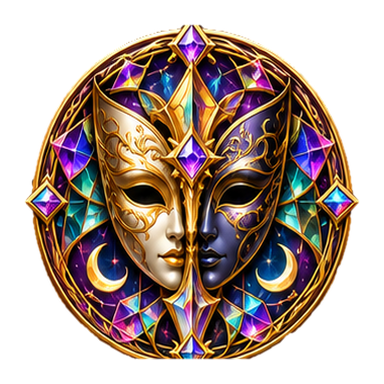
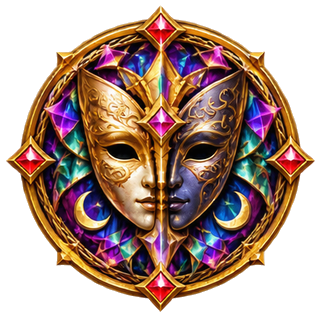
fix(spell-preview): rebuild 8 circular 320px school medallions to Class geometry

diff --git a/frontend/src/components/SpellCardFront.css b/frontend/src/components/SpellCardFront.css
@@ -7,11 +7,9 @@
   font-family:'Spectral',Georgia,serif;
 }
 .tf-spell-master *{box-sizing:border-box;}
-/* Medaglione Incantesimo: la stessa gabbia quadrata della Classe (Guerriero).
-   Il PNG corretto ha 24px trasparenti per lato su una tela 384x384.
-   Un ingombro visivo di 300/320 (come Guerriero) richiede 107.142857%
-   dell'immagine: 336/384 * 15/14 = 300/320.
-   Correzione ottica SENZA distorsioni, maschere, crop o transform. */
+/* Emblemi delle 8 scuole RICREATI come PNG quadrati 320x320.
+   Stesso box della Classe (Guerriero), nessun ingrandimento ottico:
+   centro 15.8%/10.1%, larghezza 27.5% della carta. */
 .tf-spell-school-medallion{
   position:absolute;left:2.05%;top:.2786%;width:27.5%;height:auto;
   aspect-ratio:1 / 1;z-index:14;display:block;
@@ -22,8 +20,8 @@
 }
 .tf-spell-school-emblem{
   position:absolute;display:block;
-  left:-3.5714286%;top:-3.5714286%;
-  width:107.142857%;height:107.142857%;aspect-ratio:1 / 1;
+  left:0;top:0;
+  width:100%;height:100%;aspect-ratio:1 / 1;
   object-fit:contain;max-width:none;max-height:none;
   margin:0;padding:0;box-sizing:border-box;overflow:visible;
   border:0;border-radius:0;background:transparent;outline:none;
